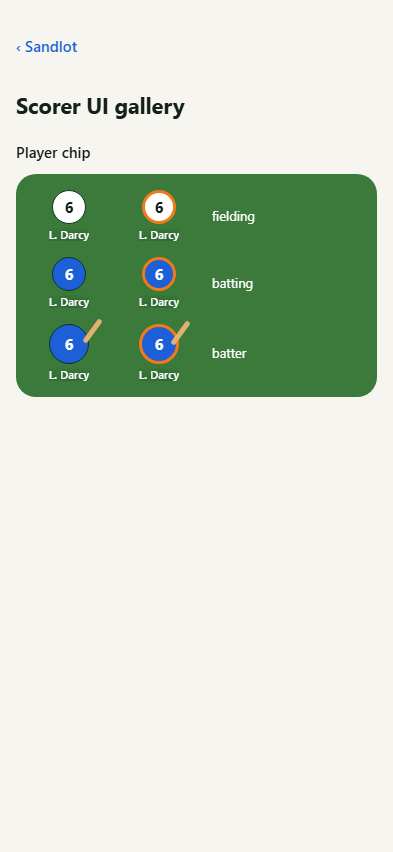
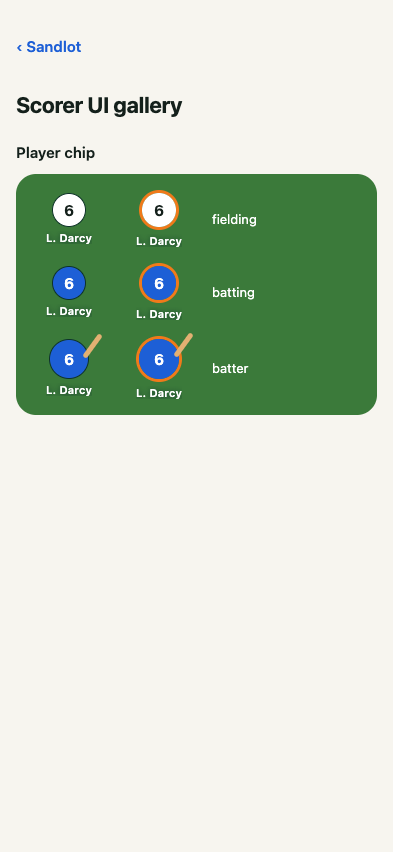
Fix followed player chip ring geometry

diff --git a/apps/mobile/scorer-ui.tsx b/apps/mobile/scorer-ui.tsx
@@ -97,9 +97,11 @@ export function PlayerChip({ number, name, role, followed = false, onPress, test
   testID?: string;
 }) {
   const chip = <View style={styles.playerChip}>
-    <View style={[role === 'fielding' ? styles.fieldingCircle : role === 'batter' ? styles.batterCircle : styles.battingCircle, followed && styles.followedCircle]}>
-      <Text style={role === 'fielding' ? styles.fieldingNumber : styles.battingNumber}>{number}</Text>
-      {role === 'batter' ? <View style={styles.batMark} /> : null}
+    <View style={followed && styles.followedCircle}>
+      <View style={[role === 'fielding' ? styles.fieldingCircle : role === 'batter' ? styles.batterCircle : styles.battingCircle, followed && styles.followedInner]}>
+        <Text style={role === 'fielding' ? styles.fieldingNumber : styles.battingNumber}>{number}</Text>
+        {role === 'batter' ? <View style={styles.batMark} /> : null}
+      </View>
     </View>
     <Text style={styles.chipName} numberOfLines={1}>{name}</Text>
   </View>;
@@ -196,7 +198,8 @@ const styles = createStyles({
   fieldingCircle: { width: sizes['chip/size'], height: sizes['chip/size'], borderRadius: sizes['radius/full'], backgroundColor: colors['chip/fielding/bg'], borderWidth: sizes['chip/outline-width'], borderColor: colors['chip/outline'], alignItems: 'center', justifyContent: 'center' },
   battingCircle: { width: sizes['chip/size'], height: sizes['chip/size'], borderRadius: sizes['radius/full'], backgroundColor: colors['chip/batting/bg'], borderWidth: sizes['chip/outline-width'], borderColor: colors['chip/outline'], alignItems: 'center', justifyContent: 'center' },
   batterCircle: { width: sizes['chip/batter-size'], height: sizes['chip/batter-size'], borderRadius: sizes['radius/full'], backgroundColor: colors['chip/batting/bg'], borderWidth: sizes['chip/outline-width'], borderColor: colors['chip/outline'], alignItems: 'center', justifyContent: 'center' },
-  followedCircle: { borderWidth: sizes['ring/width'], borderColor: colors['ring/followed'] },
+  followedCircle: { borderWidth: sizes['ring/width'], borderColor: colors['ring/followed'], borderRadius: sizes['radius/full'] },
+  followedInner: { borderWidth: 0 },
   fieldingNumber: { ...textStyles['Chip/Number'], color: colors['chip/fielding/text'] },
   battingNumber: { ...textStyles['Chip/Number'], color: colors['chip/batting/text'] },
   batMark: { position: 'absolute', right: -7, top: -8, width: 5, height: 28, backgroundColor: colors['icon/bat'], borderRadius: sizes['radius/full'], transform: [{ rotate: '36deg' }] },

diff --git a/apps/mobile/scorer-gallery.tsx b/apps/mobile/scorer-gallery.tsx
@@ -50,8 +50,8 @@ export default function ScorerGallery({ onExit }: { onExit: () => void }) {
         <Text style={styles.heading}>Player chip</Text>
         <View style={styles.fieldSample}>
           {(['fielding', 'batting', 'batter'] as const).map((role) => <View key={role} style={styles.chipRow}>
-            <PlayerChip number="6" name="L. Darcy" role={role} />
-            <PlayerChip number="6" name="L. Darcy" role={role} followed />
+            <PlayerChip number="6" name="L. Darcy" role={role} testID={`gallery-chip-${role}`} />
+            <PlayerChip number="6" name="L. Darcy" role={role} followed testID={`gallery-chip-${role}-followed`} />
             <Text style={styles.chipRole}>{role}</Text>
           </View>)}
         </View>
